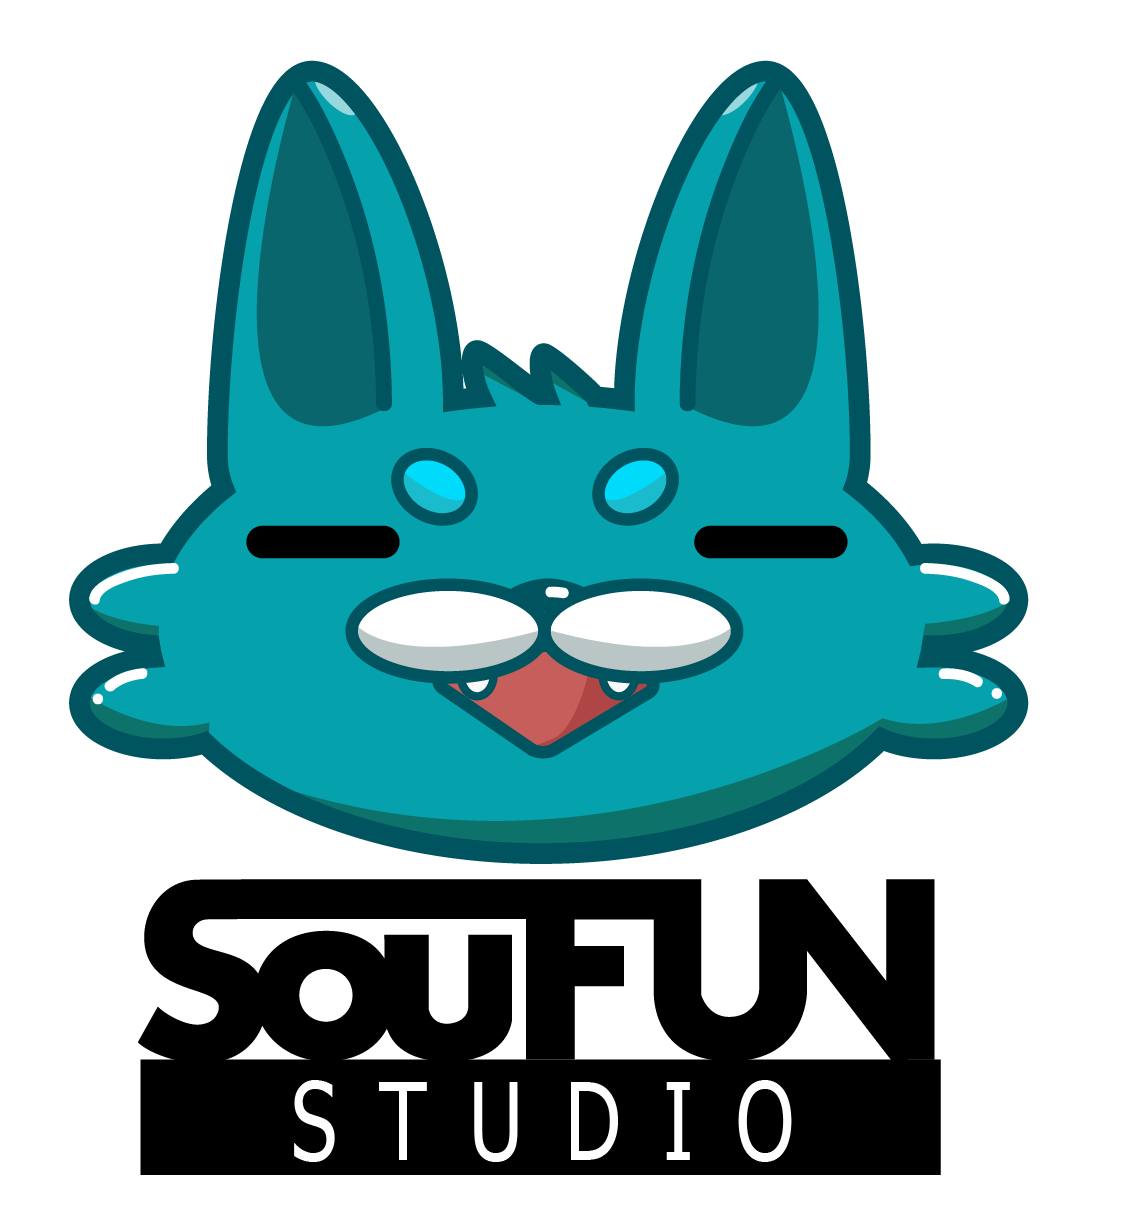
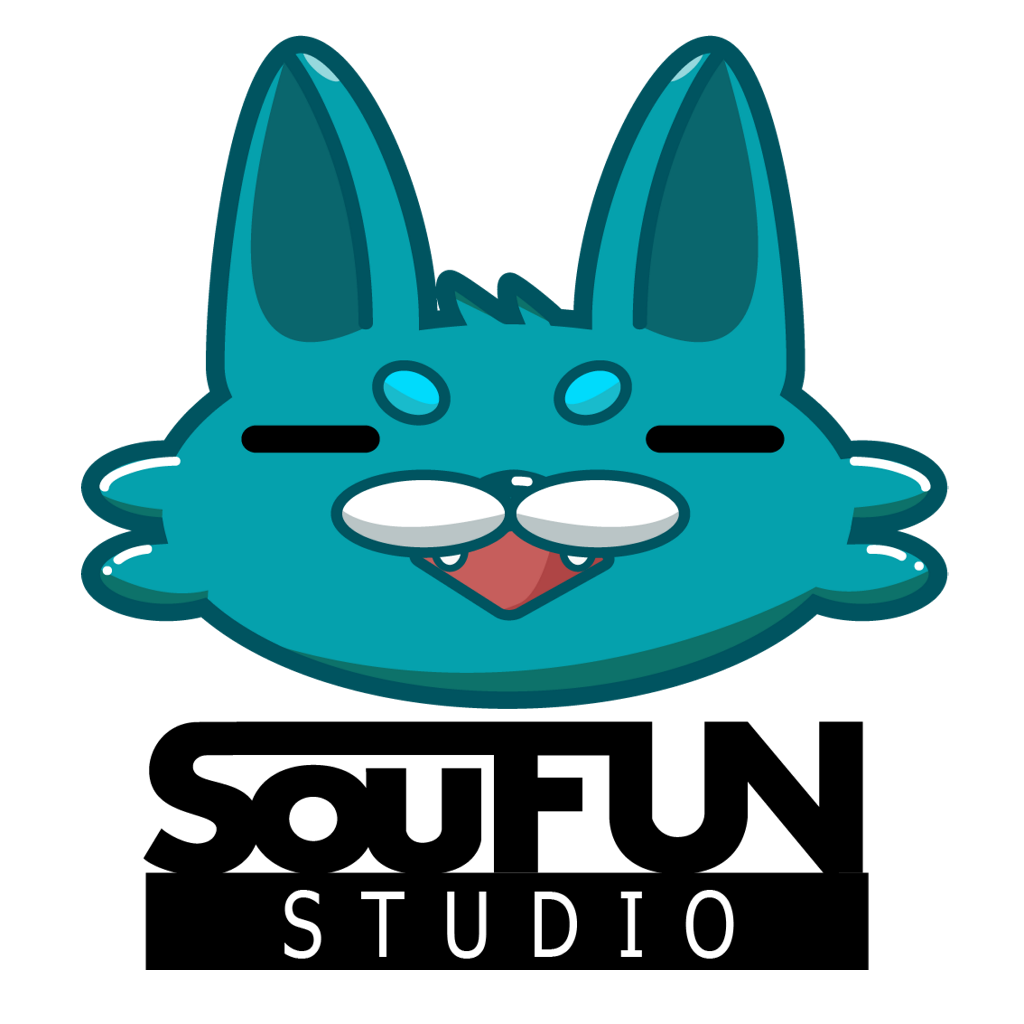
implement preloader style in style.css

Changed region(s): [[0.0625, 0.0312, 0.9375, 0.9688]]

diff --git a/css/style.css b/css/style.css
@@ -138,7 +138,7 @@ main.design .device-container {
 /*Main Background*/
 /*Preloader*/
 .preloader {
-  background-color: #212121;
+  background-color: #f7f7f7;
   width: 100%;
   height: 100%;
   position: fixed;
@@ -167,7 +167,7 @@ main.design .device-container {
   border-radius: 50%;
   -webkit-box-shadow: 0 1px 5px 0 rgba(35, 181, 185, 0.15);
   box-shadow: 0 1px 5px 0 rgba(35, 181, 185, 0.15);
-  background-color: #2E2E2E;
+  background-color: #ffffff;
   -webkit-animation: zoom 2000ms infinite ease;
   animation: zoom 2000ms infinite ease;
   -webkit-transition: .6s;
@@ -198,7 +198,7 @@ main.design .device-container {
 }
 
 .preloader .preloader-img img {
-  max-width: 80px
+  max-width: 160px
 }
 
 @-webkit-keyframes zoom {
